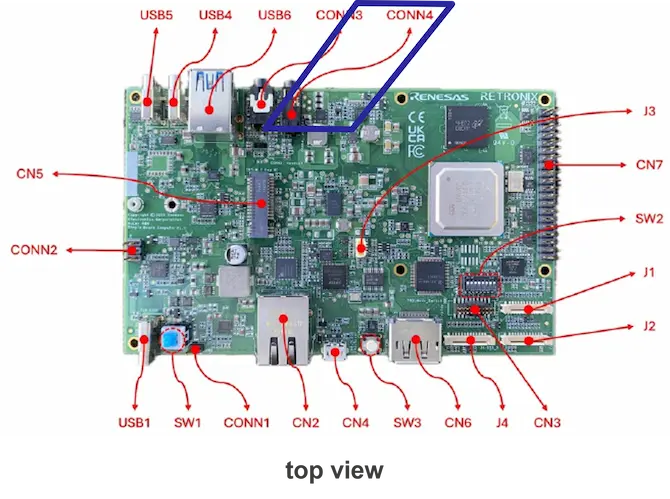
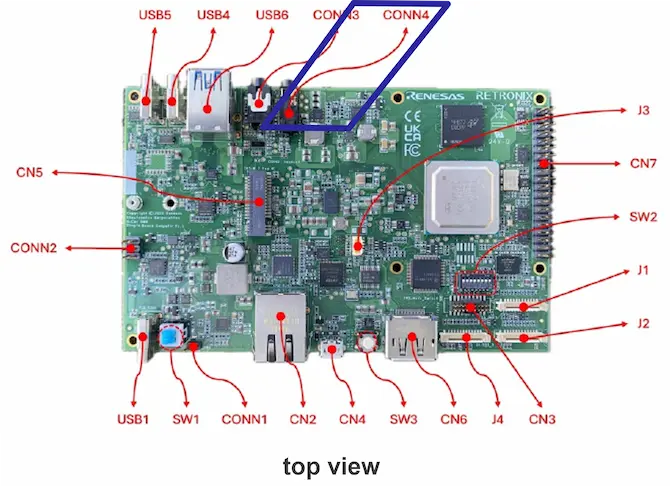
Update contents

diff --git a/assets/js/selector.js b/assets/js/selector.js
@@ -12,9 +12,9 @@
     const base = data.base;
 
     const DEFAULTS = {
-      minimal: { j1: "none", j2: "none", connector: "J4(Pi Disp) or CN4(DP)" },
-      weston:  { j1: "none", j2: "none", connector: "J4(Pi Disp) or CN4(DP) or 'J4(Pi Disp) and CN4(DP)'" },
-      debian:  { j1: "none", j2: "none", connector: "J4(Pi Disp) or CN4(DP)" }
+      minimal: { j1: "none", j2: "none", connector: "J4(Pi Disp) or CN6(DP)" },
+      weston:  { j1: "none", j2: "none", connector: "J4(Pi Disp) or CN6(DP) or 'J4(Pi Disp) and CN6(DP)'" },
+      debian:  { j1: "none", j2: "none", connector: "J4(Pi Disp) or CN6(DP)" }
     };
 
     for (const key in data.options) {
@@ -88,20 +88,20 @@
           return;
         }
 
-        if (state.connector === "J4(Pi Disp) or CN4(DP)") {
+        if (state.connector === "J4(Pi Disp) or CN6(DP)") {
           cameras.forEach((cam, index) => {
             const camIndex = index + 1;
             outputLines.push(`Connect camera to ${cam.port}: cam -c ${camIndex} -C -D`);
           });
-        } else if (state.connector === "J4(Pi Disp) and CN4(DP)") {
+        } else if (state.connector === "J4(Pi Disp) and CN6(DP)") {
 
-          outputLines.push("(You want to display J4(Pi Disp))");
+          outputLines.push("(You want to display J6(Pi Disp))");
           cameras.forEach((cam, index) => {
             const camIndex = index + 1;
             outputLines.push(`Connect camera to ${cam.port}: cam -c ${camIndex} -C -D`);
           });
 
-          outputLines.push("(You want to display CN4(DP))");
+          outputLines.push("(You want to display CN6(DP))");
           cameras.forEach((cam, index) => {
             const camIndex = index + 1;
             outputLines.push(`Connect camera to ${cam.port}: cam -c ${camIndex} -C -DDP-1`);

diff --git a/assets/js/hover-image.js b/assets/js/hover-image.js
@@ -11,6 +11,7 @@ document.addEventListener("DOMContentLoaded", function () {
   const isTouchDevice = 'ontouchstart' in window;
 
   let currentTarget = null;
+  let lastEvent = null;
 
   function updatePosition(e = null) {
     const popupWidth = popup.offsetWidth || 300;
@@ -40,7 +41,7 @@ document.addEventListener("DOMContentLoaded", function () {
   }
 
   popup.onload = () => {
-    updatePosition();
+    updatePosition(lastEvent);
   };
 
   document.querySelectorAll(".hover-img").forEach(item => {
@@ -55,6 +56,7 @@ document.addEventListener("DOMContentLoaded", function () {
 
     item.addEventListener("mousemove", e => {
       if (isTouchDevice) return;
+      lastEvent = e;
       updatePosition(e);
     });
 

diff --git a/_layouts/top.html b/_layouts/top.html
@@ -1,5 +1,5 @@
 <!DOCTYPE html>
-<html lang="ja">
+<html lang="en">
 <head>
   <meta charset="UTF-8">
   <title>{{ page.title }}</title>

diff --git a/Sparrow-Hawk/index.md b/Sparrow-Hawk/index.md
@@ -38,10 +38,10 @@ This is the page for Sparrow Hawk board with R-Car V4H provided Retronix Technol
 | Function      | Interface        | Specification                            |
 |---------------|------------------|------------------------------------------|
 | CPU           | -                | 4x Arm® Cortex®-A76, 3x Arm® Cortex®-R52 |
-| GPU           | -                | AXM-8-256                                |
+| GPU           | -                | IMG A-Series AXM-8-256                   |
 | DRAM          | -                | 8GB/16GB LPDDR5                          |
 | Flash Memory  | -                | 64MB QSPI                                |
-| Camera I/F    | J1, J2           | 2x Raspberry Pi Camera                   |
+| Camera I/F    | J1, J2           | 2x MIPI CSI Camera                       |
 | Display       | CN6, J4          | 1x DP, 1x DSI                            |
 | Ethernet AVB  | CN2              | 1 Port (1Gbps)                           |
 | Debug Serial  | CN4              | 2 Port                                   |
@@ -52,7 +52,7 @@ This is the page for Sparrow Hawk board with R-Car V4H provided Retronix Technol
 | PWM           | J3               | 1 Port                                   |
 | JTAG          | CN3              | 1 Port                                   |
 | Removal Media | CN1              | 1x MicroSD                               |
-| Extensions    | CN7              | Raspberry Pi 40-Pin CN                   |
+| Extensions    | CN7              | Raspberry Pi® 40-Pin GPIO header          |
 | Mode Switches | SW2              | Dip SW                                   |
 | Power         | USB1(Input)      | USB PD 20V                               |
 | Power Control | SW1, SW3, CONN1  | 2x SW, 1x Jumper                         |
@@ -90,7 +90,8 @@ Link : [https://ftdichip.com/drivers/](https://ftdichip.com/drivers/)
 
 ### Caution
 
-FAN must be installed. Do not remove FAN for cooling the R-Car V4H from the board, as doing so will lead to the R-Car V4H being overheated to destruction. It is recommended to use a heat sink and FAN together.
+1. FAN must be installed. Do not remove FAN for cooling the R-Car V4H from the board, as doing so will lead to the R-Car V4H being overheated to destruction. It is recommended to use a heat sink and FAN together.
+2. Please use only a power supply and cable that comply with the USB Power Delivery (USB PD) standard. Using a non-USB PD power supply may cause damage to the Sparrow Hawk.
 {: .caution}
 
 ## Software Version List

diff --git a/Sparrow-Hawk/BSP/debian_based_bsp.md b/Sparrow-Hawk/BSP/debian_based_bsp.md
@@ -95,7 +95,9 @@ nd/or display, please choice the following button and input command.
 {% include selector.html config="camera_bootcmd" data-mode="normal" %}
 6. If command and environment is correct, Linux kernel log will output.
 {:start="6"}
-7. Log in to "sparrow-hawk login:" as rcar and at the "Password:" prompt, enter rcar.
+7. Log in using the following login ID and password.
+   * sparrow-hawk login: rcar
+   * Password: rcar
 {:start="7"}
 
 &nbsp;
@@ -261,8 +263,7 @@ For more examples, please see also [https://github.com/brgl/libgpiod/raw/refs/he
 
 ### USB3.0
 
-* With the power turned on, connect it to any available {% include hover-image.html text="USB6" img="/images/USB6.webp" %} port. If “SuperSpeed” is disp
-layed, the test is successful.
+* With the power turned on, connect it to any available {% include hover-image.html text="USB6" img="/images/USB6.webp" %} port. If “SuperSpeed” is displayed, the test is successful.
 
    * Output example(the upper {% include hover-image.html text="USB6" img="/images/USB6.webp" %} port)
      ```plaintext

diff --git a/Sparrow-Hawk/BSP/yocto_bsp.md b/Sparrow-Hawk/BSP/yocto_bsp.md
@@ -105,7 +105,8 @@ Note:
 {% include selector.html config="camera_bootcmd" data-mode="normal" %}
 6. If command and environment is correct, Linux kernel log will output.
 {:start="6"}
-7. Log in to "sparrow-hawk login:" as root.
+7. Log in using the following login ID.
+   * sparrow-hawk login: root
 {:start="7"}
 
 &nbsp;
@@ -466,8 +467,8 @@ ted. In addition, recognition may occasionally fail.
 2. How to expand the rootfs
    * Please run the following command on your board. Rootfs is expanded to use whole storage.
      ```bash
-     sudo expand-rootfs.sh
-     sudo reboot
+     expand-rootfs.sh
+     reboot
      ```
 {:start="2"}
 
